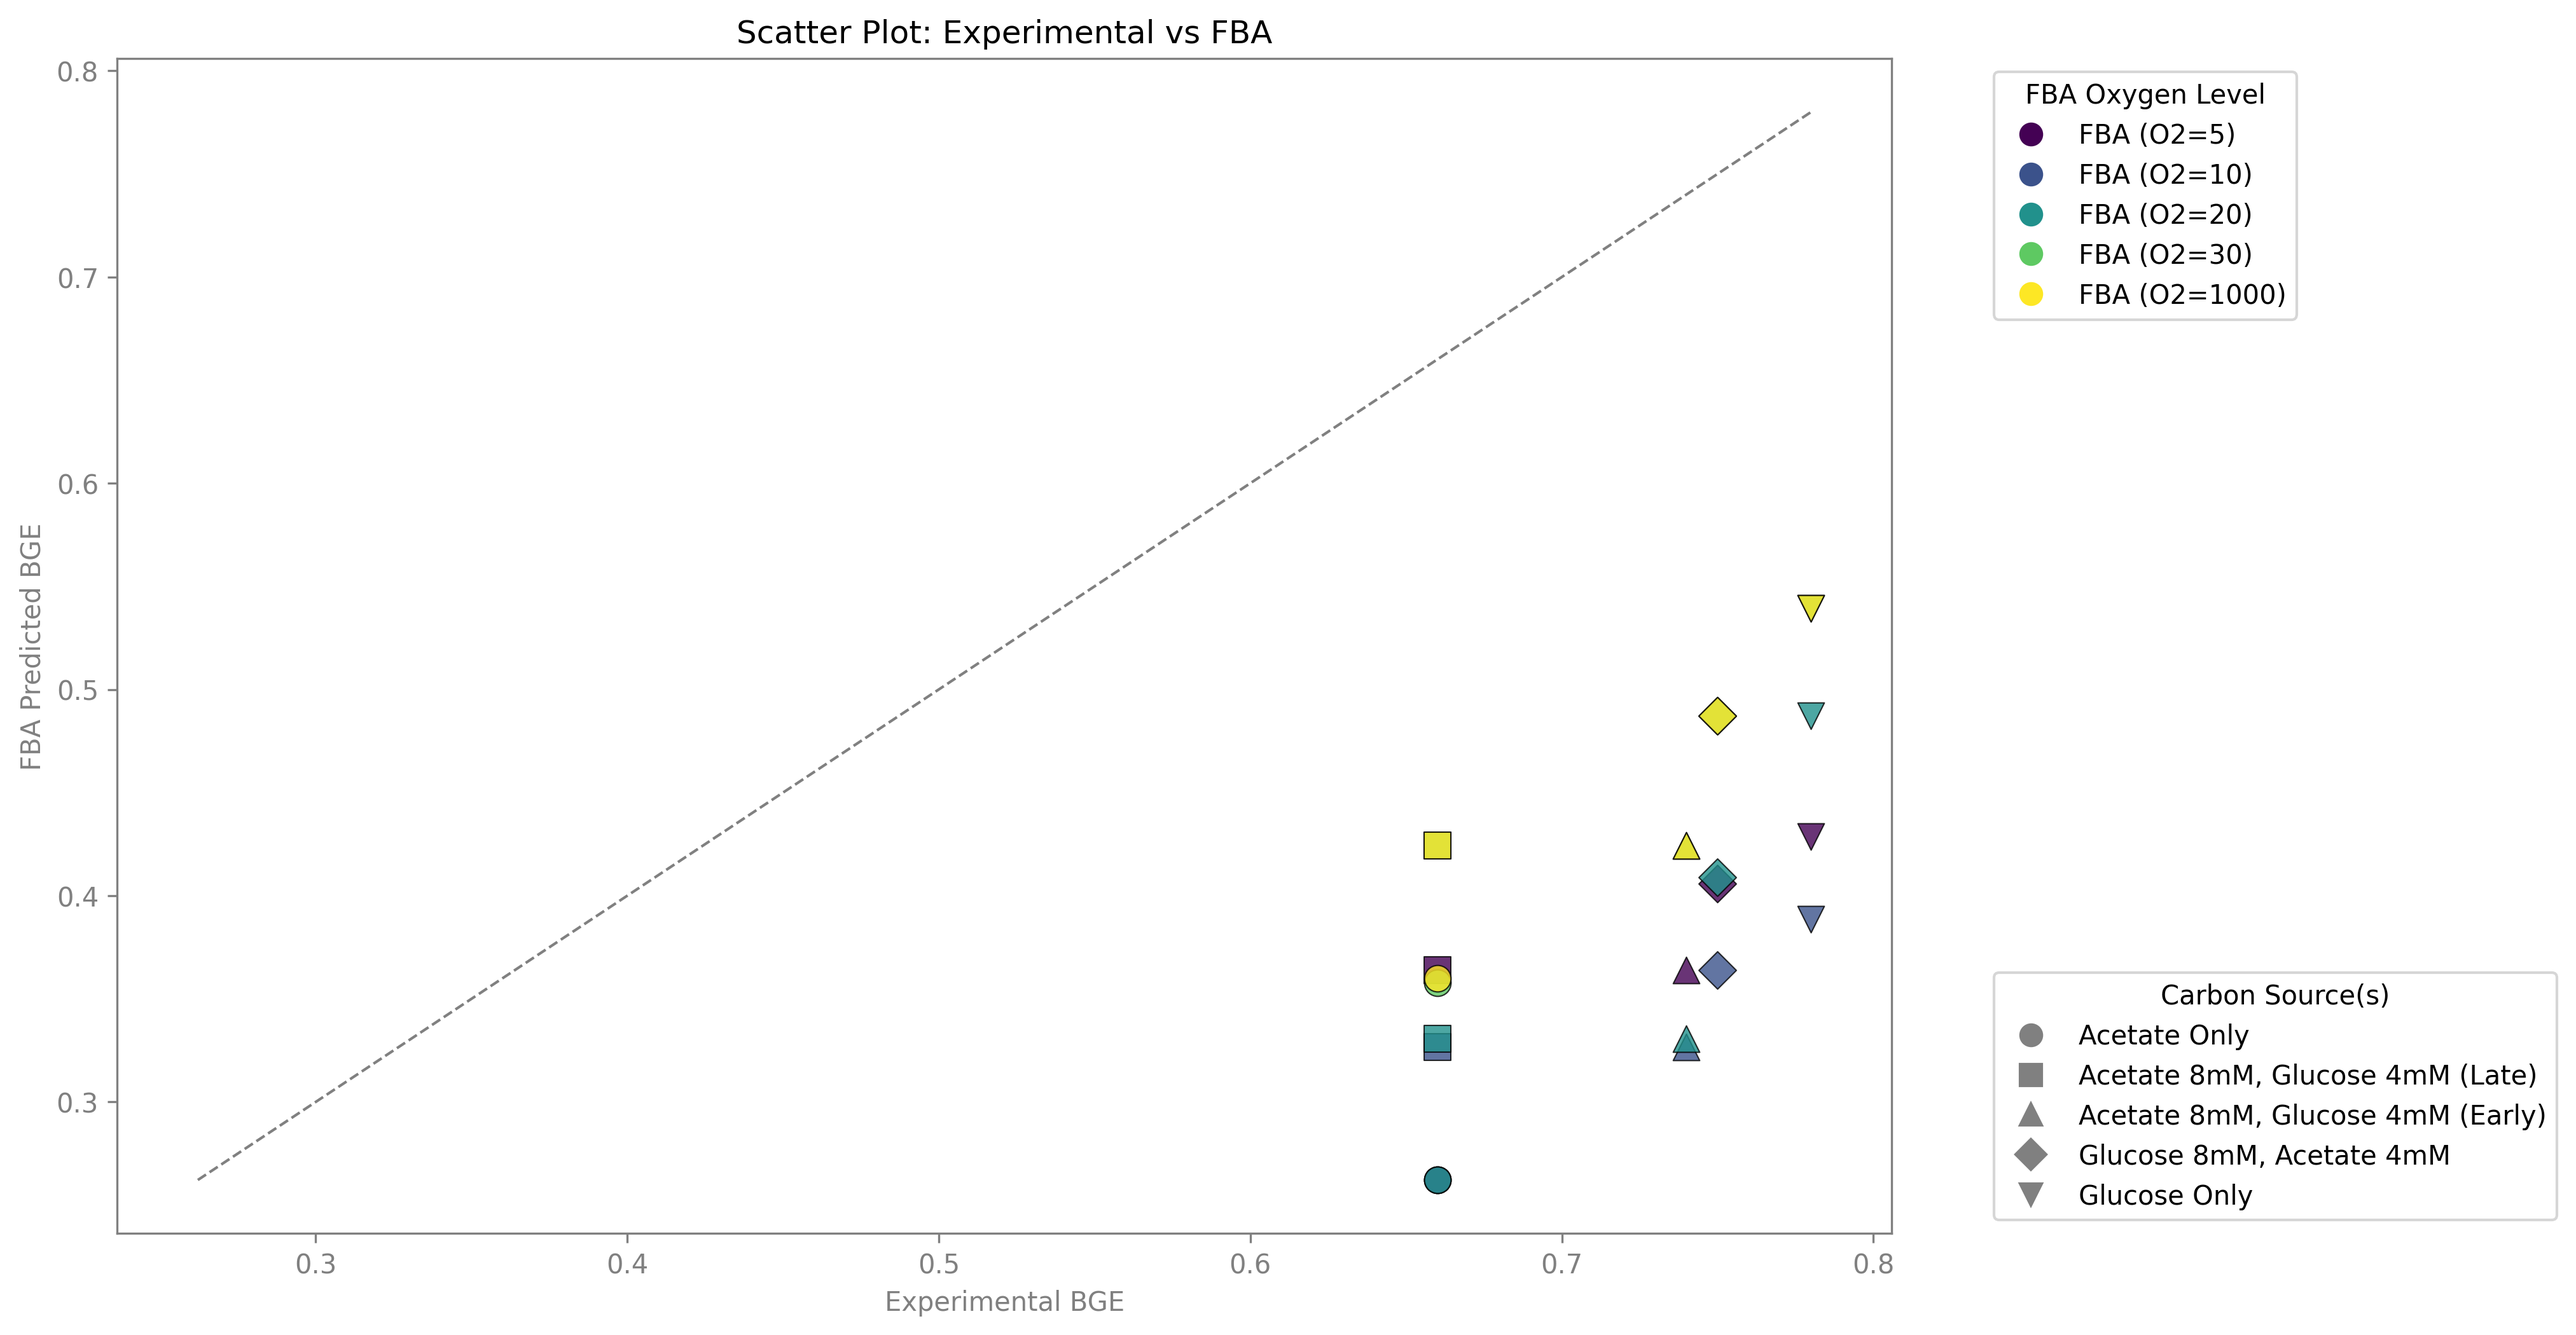
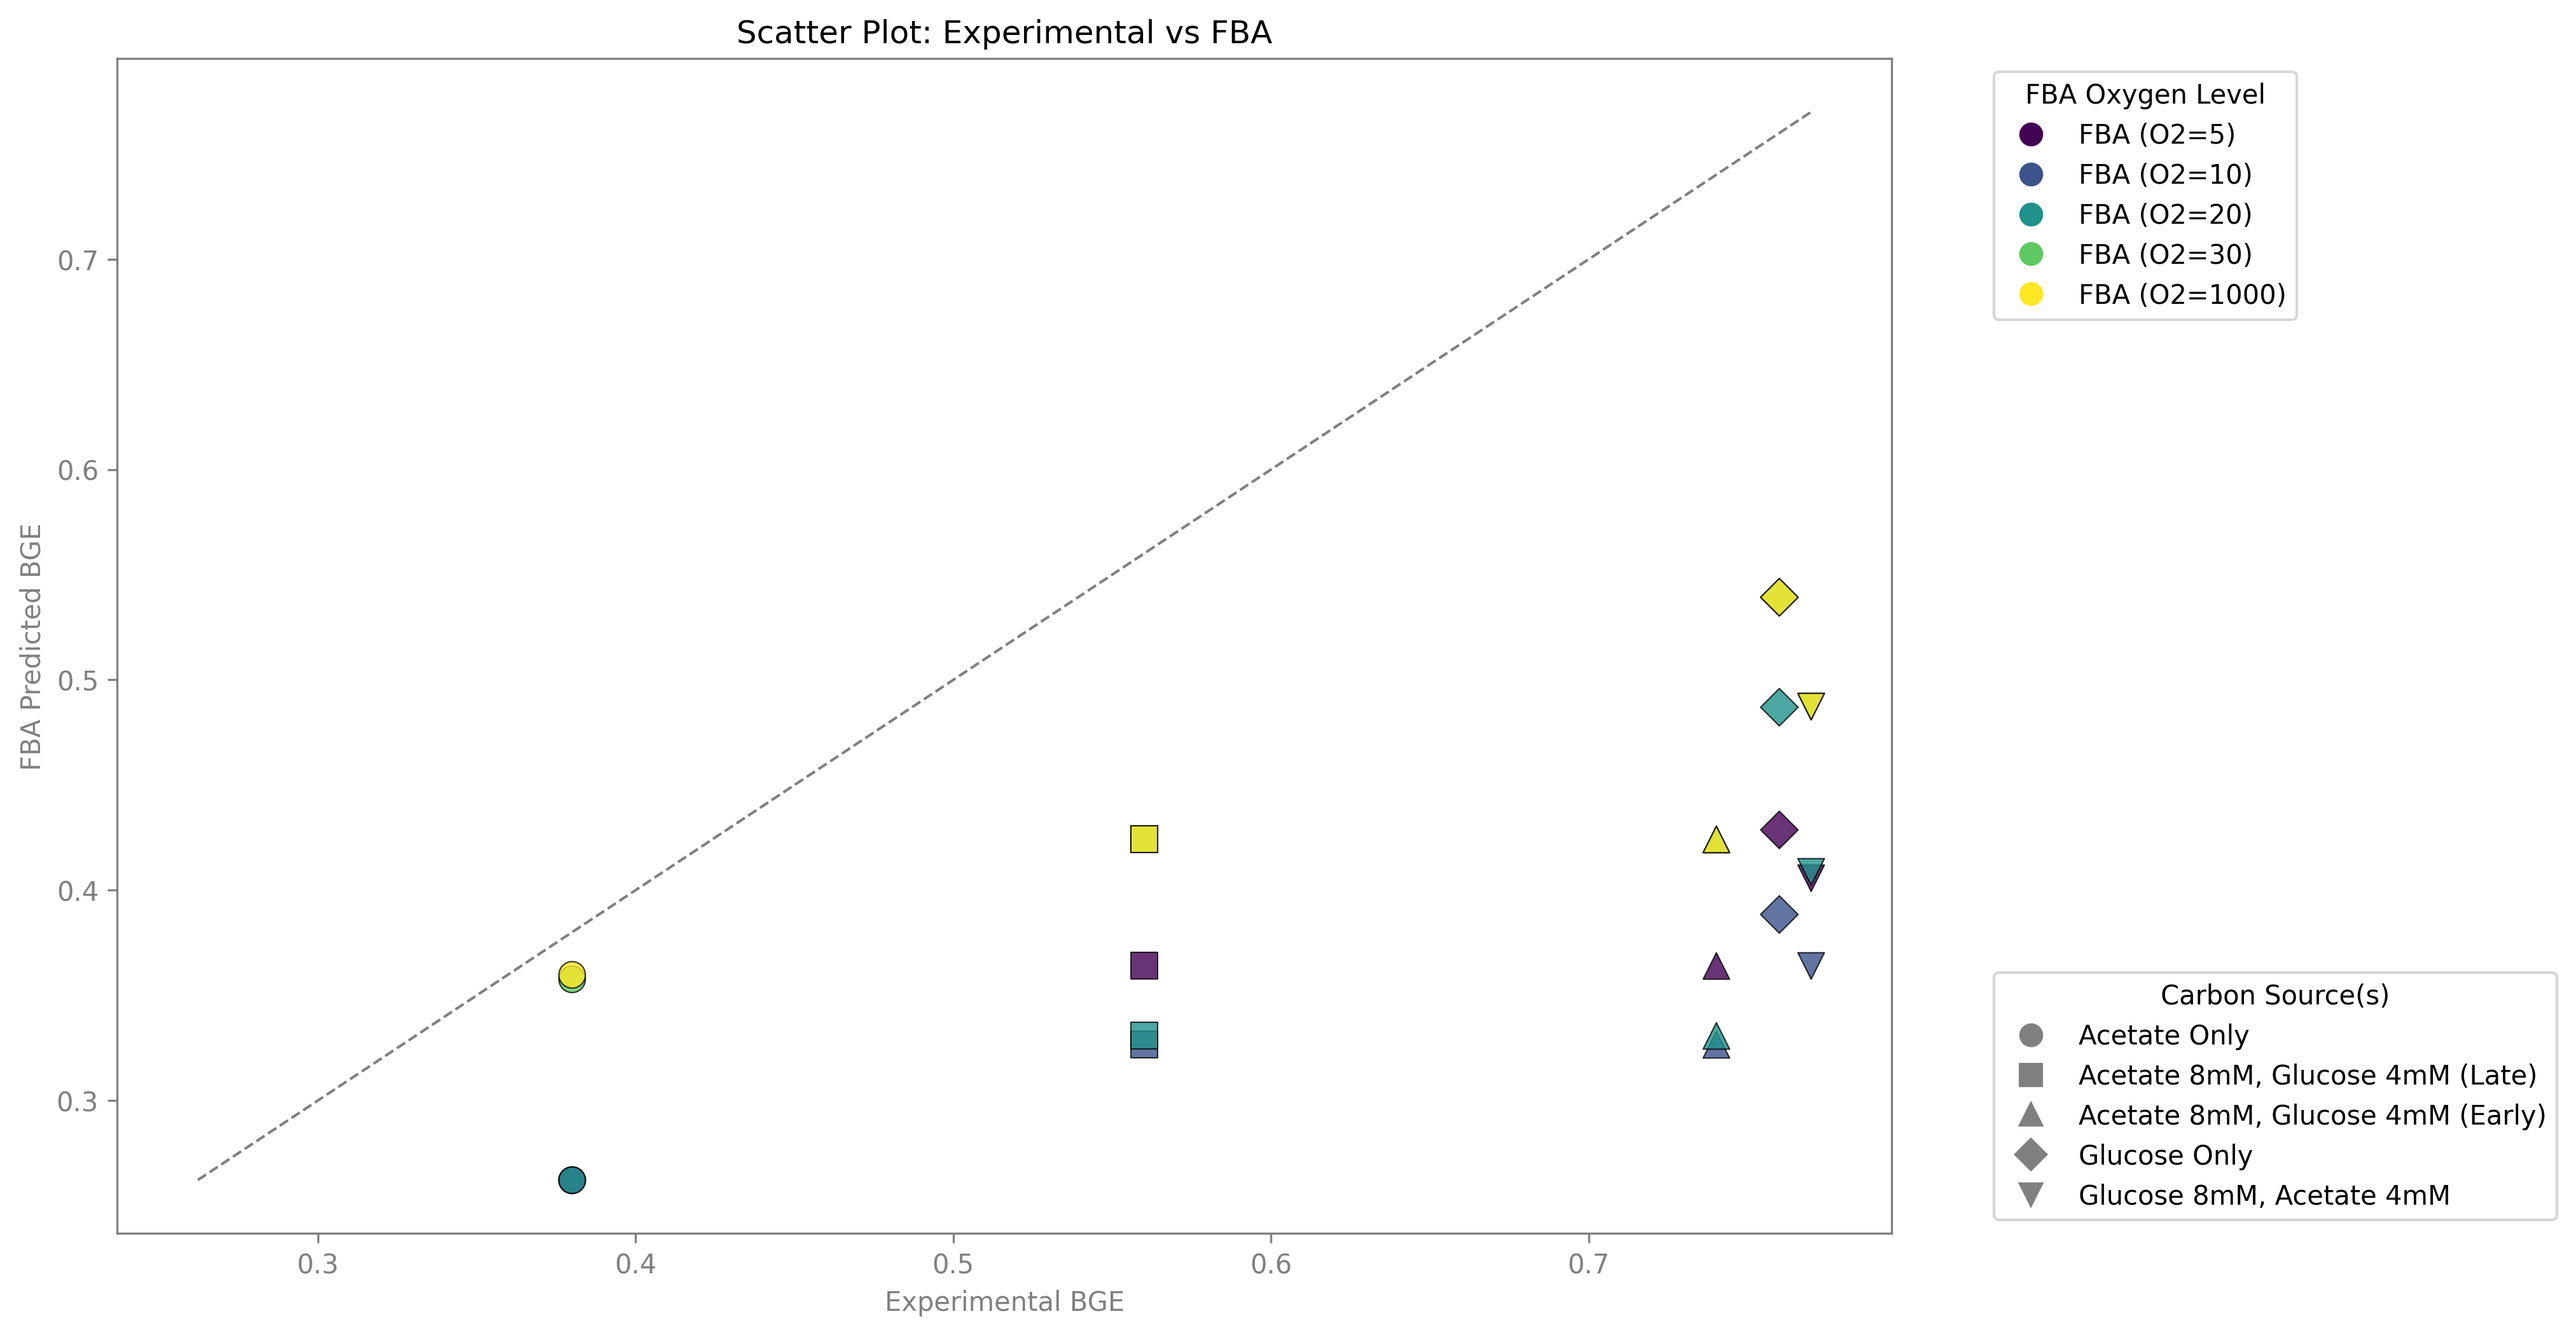
Use new values from Mary Ann

diff --git a/mit1002_full/glc_and_ace/vs_experimental/plot_exp_vs_pred_cue.py b/mit1002_full/glc_and_ace/vs_experimental/plot_exp_vs_pred_cue.py
@@ -18,11 +18,11 @@ if not os.path.exists(OUT_DIR):
 # spreadsheet from Mary Ann
 # Define the columns of the dataframe to be the different conditions
 data = {
-    "Glucose Only": [0.78],
-    "Acetate Only": [0.66],
-    "Glucose 8mM, Acetate 4mM": [0.75],
+    "Glucose Only": [0.76],
+    "Acetate Only": [0.38],
+    "Glucose 8mM, Acetate 4mM": [0.77],
     "Acetate 8mM, Glucose 4mM (Early)": [0.74],
-    "Acetate 8mM, Glucose 4mM (Late)": [0.66],
+    "Acetate 8mM, Glucose 4mM (Late)": [0.56],
 }
 # Convert data to a pandas DataFrame
 bge_df = pd.DataFrame(data)
@@ -47,12 +47,10 @@ bge_df.loc["FBA (O2=5)"] = {
         (fba_data["media_name"] == "Glucose 8mM, Acetate 4mM") & (fba_data["o2"] == 5)
     ]["bge"].iloc[0],
     "Acetate 8mM, Glucose 4mM (Early)": fba_data[
-        (fba_data["media_name"] == "Acetate 8mM, Glucose 4mM")
-        & (fba_data["o2"] == 5)
+        (fba_data["media_name"] == "Acetate 8mM, Glucose 4mM") & (fba_data["o2"] == 5)
     ]["bge"].iloc[0],
     "Acetate 8mM, Glucose 4mM (Late)": fba_data[
-        (fba_data["media_name"] == "Acetate 8mM, Glucose 4mM")
-        & (fba_data["o2"] == 5)
+        (fba_data["media_name"] == "Acetate 8mM, Glucose 4mM") & (fba_data["o2"] == 5)
     ]["bge"].iloc[0],
 }
 bge_df.loc["FBA (O2=10)"] = {
@@ -66,12 +64,10 @@ bge_df.loc["FBA (O2=10)"] = {
         (fba_data["media_name"] == "Glucose 8mM, Acetate 4mM") & (fba_data["o2"] == 10)
     ]["bge"].iloc[0],
     "Acetate 8mM, Glucose 4mM (Early)": fba_data[
-        (fba_data["media_name"] == "Acetate 8mM, Glucose 4mM")
-        & (fba_data["o2"] == 10)
+        (fba_data["media_name"] == "Acetate 8mM, Glucose 4mM") & (fba_data["o2"] == 10)
     ]["bge"].iloc[0],
     "Acetate 8mM, Glucose 4mM (Late)": fba_data[
-        (fba_data["media_name"] == "Acetate 8mM, Glucose 4mM")
-        & (fba_data["o2"] == 10)
+        (fba_data["media_name"] == "Acetate 8mM, Glucose 4mM") & (fba_data["o2"] == 10)
     ]["bge"].iloc[0],
 }
 bge_df.loc["FBA (O2=20)"] = {
@@ -85,12 +81,10 @@ bge_df.loc["FBA (O2=20)"] = {
         (fba_data["media_name"] == "Glucose 8mM, Acetate 4mM") & (fba_data["o2"] == 20)
     ]["bge"].iloc[0],
     "Acetate 8mM, Glucose 4mM (Early)": fba_data[
-        (fba_data["media_name"] == "Acetate 8mM, Glucose 4mM")
-        & (fba_data["o2"] == 20)
+        (fba_data["media_name"] == "Acetate 8mM, Glucose 4mM") & (fba_data["o2"] == 20)
     ]["bge"].iloc[0],
     "Acetate 8mM, Glucose 4mM (Late)": fba_data[
-        (fba_data["media_name"] == "Acetate 8mM, Glucose 4mM")
-        & (fba_data["o2"] == 20)
+        (fba_data["media_name"] == "Acetate 8mM, Glucose 4mM") & (fba_data["o2"] == 20)
     ]["bge"].iloc[0],
 }
 bge_df.loc["FBA (O2=30)"] = {
@@ -104,12 +98,10 @@ bge_df.loc["FBA (O2=30)"] = {
         (fba_data["media_name"] == "Glucose 8mM, Acetate 4mM") & (fba_data["o2"] == 30)
     ]["bge"].iloc[0],
     "Acetate 8mM, Glucose 4mM (Early)": fba_data[
-        (fba_data["media_name"] == "Acetate 8mM, Glucose 4mM")
-        & (fba_data["o2"] == 30)
+        (fba_data["media_name"] == "Acetate 8mM, Glucose 4mM") & (fba_data["o2"] == 30)
     ]["bge"].iloc[0],
     "Acetate 8mM, Glucose 4mM (Late)": fba_data[
-        (fba_data["media_name"] == "Acetate 8mM, Glucose 4mM")
-        & (fba_data["o2"] == 30)
+        (fba_data["media_name"] == "Acetate 8mM, Glucose 4mM") & (fba_data["o2"] == 30)
     ]["bge"].iloc[0],
 }
 bge_df.loc["FBA (O2=1000)"] = {
